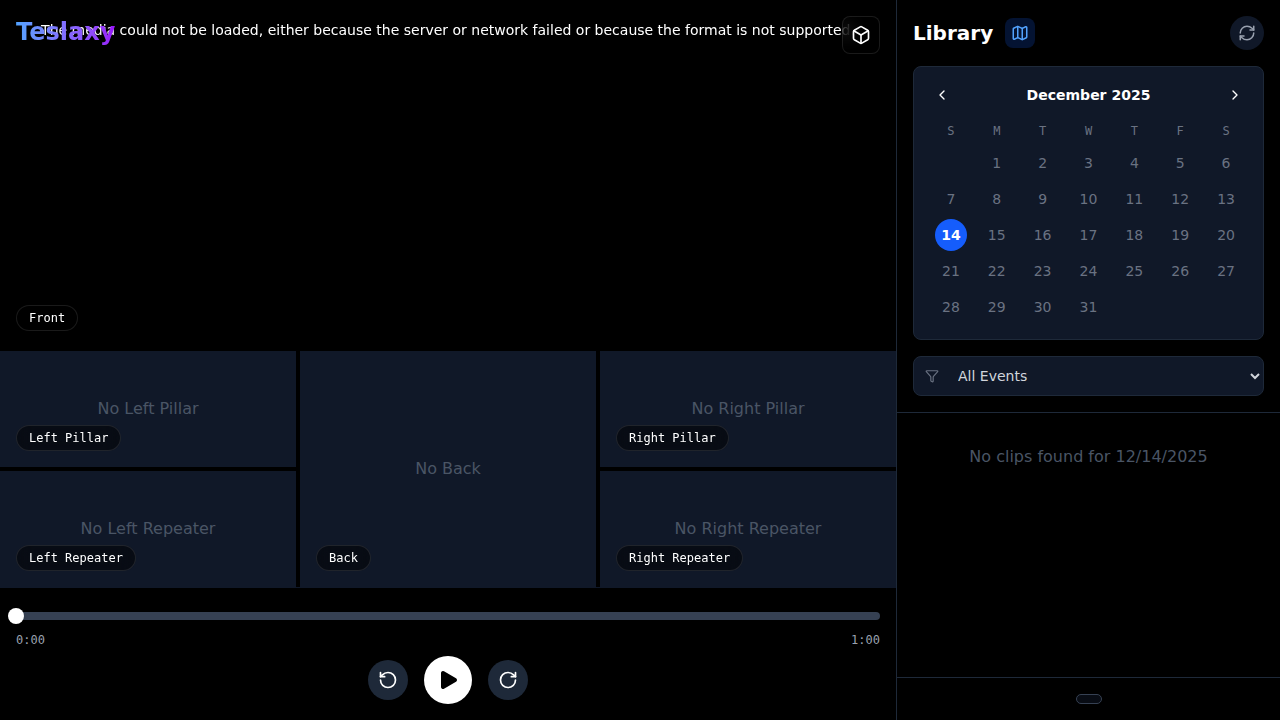
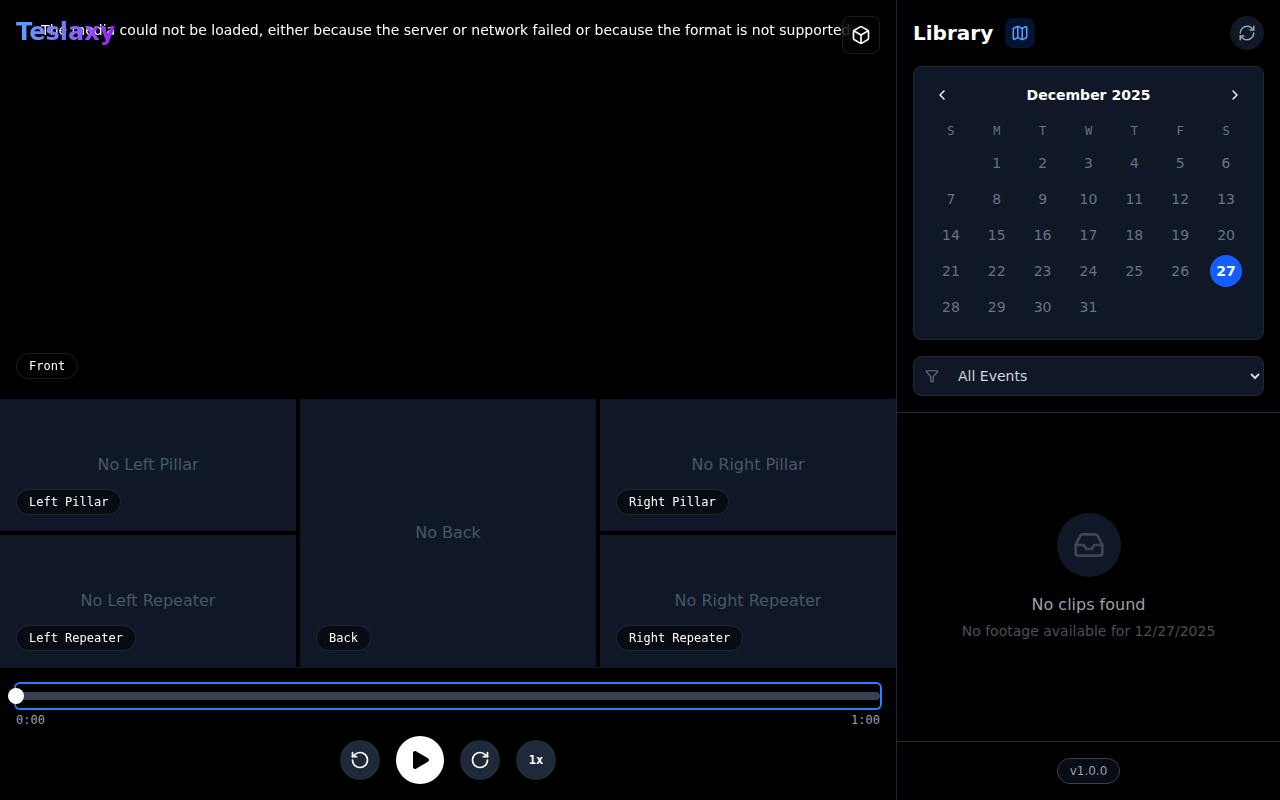
feat: improve timeline accessibility
- Add aria-orientation="horizontal" to timeline slider
- Ensure scrubber handle is visible on focus and drag via group-focus-visible

diff --git a/frontend/src/components/Timeline.tsx b/frontend/src/components/Timeline.tsx
@@ -110,6 +110,7 @@ const Timeline: React.FC<TimelineProps> = ({
         tabIndex={0}
         role="slider"
         aria-label="Playback timeline"
+        aria-orientation="horizontal"
         aria-valuemin={0}
         aria-valuemax={duration}
         aria-valuenow={currentTime}
@@ -126,7 +127,7 @@ const Timeline: React.FC<TimelineProps> = ({
 
         {/* Handle */}
         <div
-          className="absolute h-4 w-4 bg-white rounded-full shadow-md transform -translate-x-1/2 scale-0 group-hover:scale-100 transition-transform"
+          className={`absolute h-4 w-4 bg-white rounded-full shadow-md transform -translate-x-1/2 transition-transform ${isDragging ? 'scale-100' : 'scale-0 group-hover:scale-100 group-focus-visible:scale-100'}`}
           style={{ left: `${getPercentage(currentTime)}%` }}
         />
 

diff --git a/test_scrubber_fix.py b/test_scrubber_fix.py
@@ -1,90 +1,116 @@
-from playwright.sync_api import sync_playwright
-import json
 import time
+from playwright.sync_api import sync_playwright
 
-def run(playwright):
-    browser = playwright.chromium.launch(headless=True)
-    page = browser.new_page(viewport={"width": 1280, "height": 720})
+def verify_timeline_accessibility():
+    with sync_playwright() as p:
+        browser = p.chromium.launch(headless=True)
+        # Create a new context with a larger viewport
+        context = browser.new_context(viewport={'width': 1280, 'height': 800})
+        page = context.new_page()
 
-    # Mock Data
-    clip_id = 1
-    # Invalid timestamp string causing NaN
-    mock_clip = {
-        "ID": clip_id,
-        "timestamp": "InvalidDateString",
-        "event": "Recent",
-        "city": "Test City",
-        "video_files": [
+        # Mock API responses to allow the Player to render
+        page.route("**/api/version", lambda route: route.fulfill(
+            status=200,
+            content_type="application/json",
+            body='{"latestVersion": "v1.0.0", "releases": []}'
+        ))
+
+        # Mock Clips list
+        page.route("**/api/clips", lambda route: route.fulfill(
+            status=200,
+            content_type="application/json",
+            body='''
+            [
+                {
+                    "ID": 1,
+                    "timestamp": "2023-10-27T10:00:00Z",
+                    "event": "Sentry",
+                    "city": "Test City",
+                    "video_files": [
+                        {"camera": "Front", "file_path": "/test/front.mp4", "timestamp": "2023-10-27T10:00:00Z"}
+                    ],
+                    "telemetry": {}
+                }
+            ]
+            '''
+        ))
+
+        # Mock Clip details
+        page.route("**/api/clips/1", lambda route: route.fulfill(
+            status=200,
+            content_type="application/json",
+            body='''
             {
-                "camera": "Front",
-                "file_path": "front.mp4",
-                "timestamp": "InvalidDateString" # Should result in NaN -> 0
-            },
-             {
-                "camera": "Front",
-                "file_path": "front2.mp4",
-                "timestamp": "2024-01-01T00:00:00Z" # Valid
+                "ID": 1,
+                "timestamp": "2023-10-27T10:00:00Z",
+                "event": "Sentry",
+                "city": "Test City",
+                "video_files": [
+                    {"camera": "Front", "file_path": "/test/front.mp4", "timestamp": "2023-10-27T10:00:00Z"}
+                ],
+                "telemetry": {}
             }
-        ],
-        "telemetry": {}
-    }
+            '''
+        ))
 
-    # Mock /api/clips
-    def handle_clips(route):
-        route.fulfill(
+        # Mock Thumbnail
+        page.route("**/api/thumbnail**", lambda route: route.fulfill(
             status=200,
-            content_type="application/json",
-            body=json.dumps([mock_clip])
-        )
-    page.route("**/api/clips", handle_clips)
+            content_type="image/svg+xml",
+            body='<svg width="100" height="100" xmlns="http://www.w3.org/2000/svg"><rect width="100" height="100" fill="gray"/></svg>'
+        ))
 
-    # Mock /api/clips/1
-    def handle_clip_detail(route):
-        route.fulfill(
-            status=200,
-            content_type="application/json",
-            body=json.dumps(mock_clip)
-        )
-    page.route(f"**/api/clips/{clip_id}", handle_clip_detail)
+        # Navigate to the app
+        print("Navigating to app...")
+        page.goto("http://localhost:5173/")
 
-    # Mock video file (empty)
-    page.route("**/api/video/**", lambda route: route.fulfill(
-        status=200,
-        content_type="video/mp4",
-        headers={"Content-Range": "bytes 0-100/1000"},
-        body=b"fakevideodata"
-    ))
+        # Wait for the app to load and player to appear
+        # The app automatically selects the first clip, so the player should render
+        print("Waiting for player...")
+        try:
+            page.wait_for_selector('role=slider', timeout=10000)
+        except Exception as e:
+            print("Timeout waiting for slider. Dumping page content...")
+            print(page.content())
+            page.screenshot(path="verification_timeout.png")
+            raise e
 
-    page.route("**/api/thumbnail/**", lambda route: route.fulfill(status=404))
+        # Get the slider element
+        slider = page.get_by_role("slider")
 
-    # Mock version
-    page.route("**/api/version", lambda route: route.fulfill(
-        status=200,
-        content_type="application/json",
-        body=json.dumps([])
-    ))
+        # Check for aria-orientation
+        aria_orientation = slider.get_attribute("aria-orientation")
+        print(f"aria-orientation: {aria_orientation}")
 
-    print("Navigating...")
-    page.goto("http://localhost:5173")
+        if aria_orientation != "horizontal":
+            print("FAIL: aria-orientation is missing or incorrect")
+        else:
+            print("PASS: aria-orientation is correct")
 
-    # Wait for player to load
-    try:
-        page.wait_for_selector("text=Test City", timeout=10000)
-        print("Loaded clip.")
-    except:
-        print("Timeout waiting for clip.")
+        # Focus the slider to trigger focus styles
+        slider.focus()
 
-    # Check timeline text
-    # It should say "0:00" or similar
-    # Screenshot the player controls
+        # Take a screenshot to verify handle visibility (though hard to assert programmatically without image diff)
+        page.screenshot(path="verification_scrubber.png")
+        print("Screenshot saved to verification_scrubber.png")
 
-    time.sleep(2) # Wait for renders
+        # Check for the handle class update by inspecting the HTML
+        # We need to find the handle div inside the slider. It's the one with transition-transform and scale classes.
+        # The handle is the 2nd child of the slider div in the current structure:
+        # 1. Track Background
+        # 2. Handle
+        # 3. Markers
 
-    page.screenshot(path="verification_scrubber.png")
-    print("Screenshot saved to verification_scrubber.png")
+        # Let's get the inner HTML of the slider to inspect
+        slider_html = slider.inner_html()
+        print("Slider Inner HTML:", slider_html)
 
-    browser.close()
+        if "group-focus-visible:scale-100" in slider_html:
+            print("PASS: group-focus-visible:scale-100 class found")
+        else:
+            print("FAIL: group-focus-visible:scale-100 class NOT found")
+
+        browser.close()
 
 if __name__ == "__main__":
-    with sync_playwright() as playwright:
-        run(playwright)
+    verify_timeline_accessibility()
